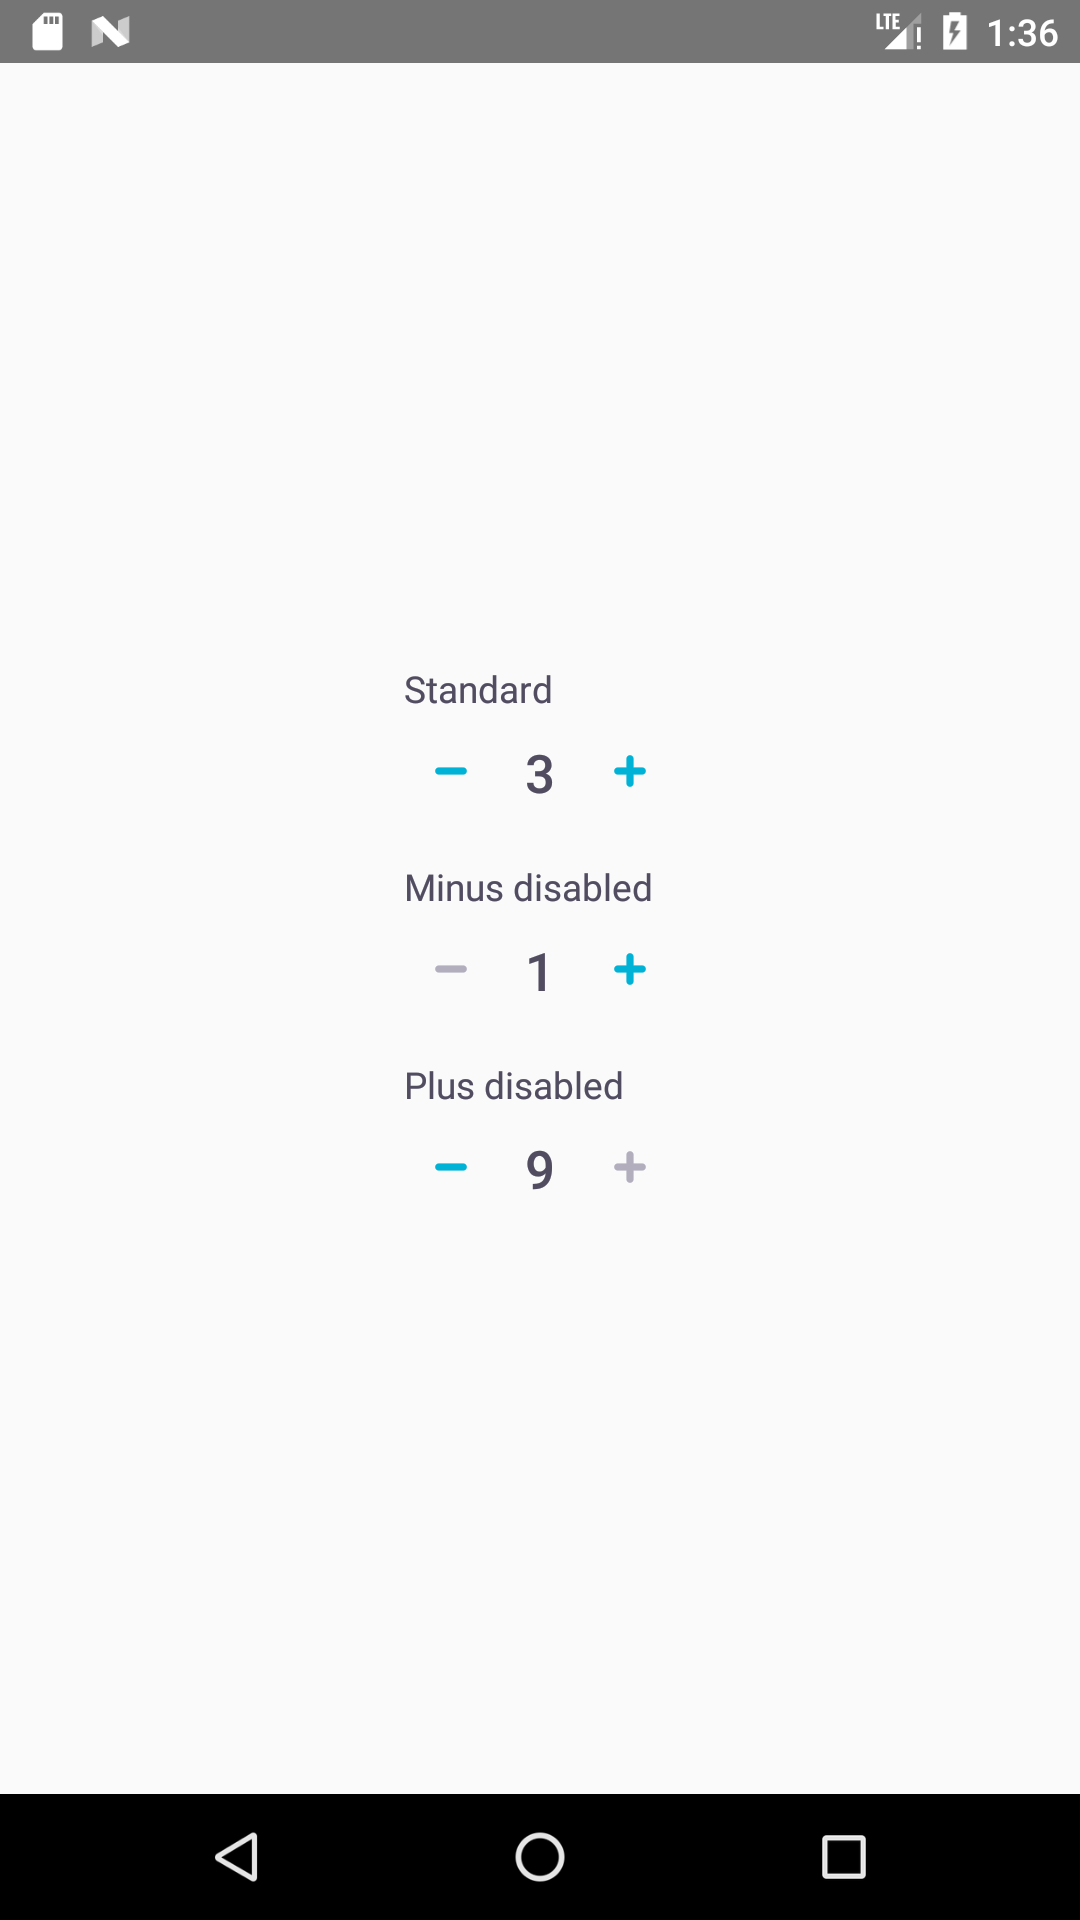
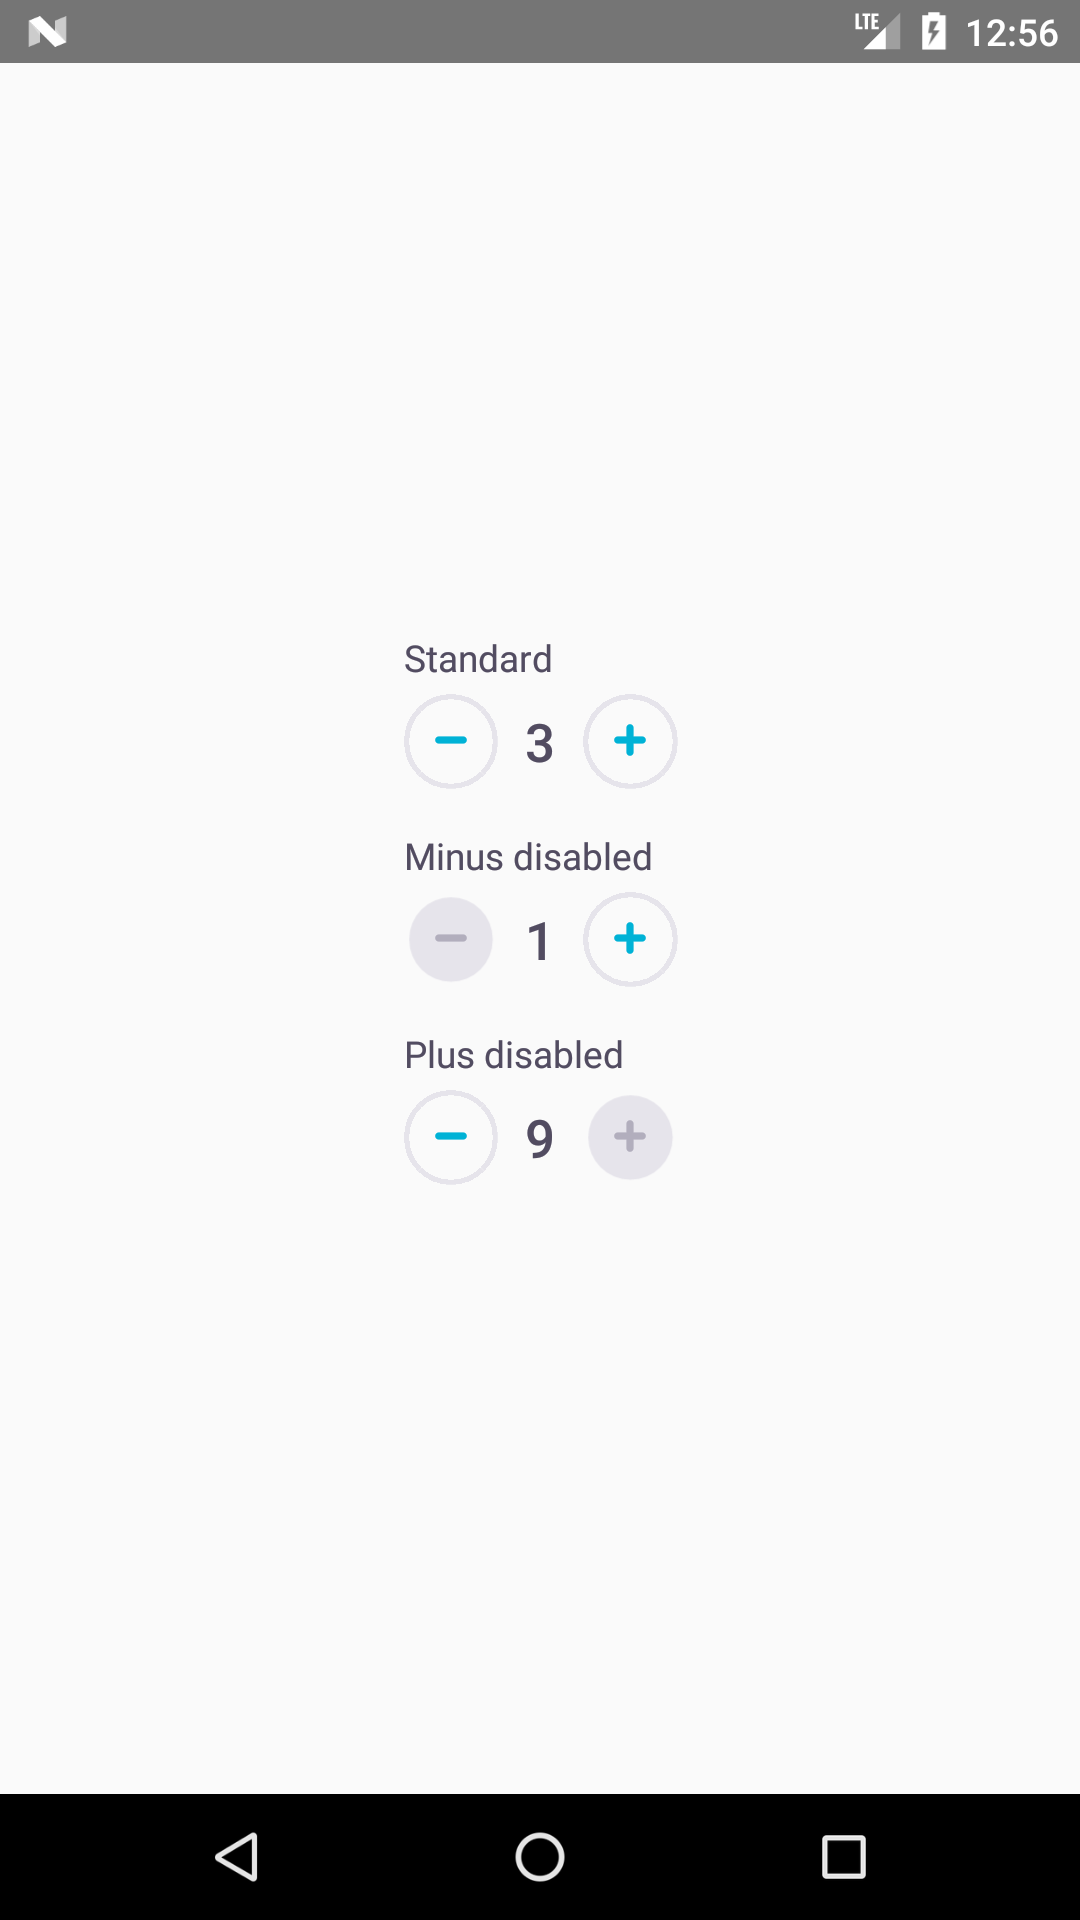
[BPK-1403] Align android secondary and destructive buttons

diff --git a/native/packages/react-native-bpk-component-button/src/utils.js b/native/packages/react-native-bpk-component-button/src/utils.js
@@ -178,10 +178,6 @@ export const getAndroidBackgroundColour = (
     backgroundColor: 'transparent',
   };
 
-  if (['secondary', 'destructive'].includes(props.type) && props.disabled) {
-    return StyleSheet.create({ style }).style;
-  }
-
   /**
    * The main colour of the button in Android is the start colour from the  gradient
    * for iOS, can be made explicit in the style file if needed

diff --git a/packages/bpk-tokens/tokens/android/base.react.native.es6.js b/packages/bpk-tokens/tokens/android/base.react.native.es6.js
@@ -25,7 +25,7 @@ export const borderSizeLg = 2;
 export const borderSizeXl = 3;
 export const borderRadiusSm = 2;
 export const borderRadiusPill = 40;
-export const buttonBorderWidth = 0;
+export const buttonBorderWidth = 2;
 export const buttonHeight = 32 + 4;
 export const buttonPaddingHorizontal = 4 * 3;
 export const buttonLineHeightLarge = 4 * 12;

diff --git a/packages/bpk-tokens/tokens/base.react.native.android.js b/packages/bpk-tokens/tokens/base.react.native.android.js
@@ -25,7 +25,7 @@ export const borderSizeLg = 2;
 export const borderSizeXl = 3;
 export const borderRadiusSm = 2;
 export const borderRadiusPill = 40;
-export const buttonBorderWidth = 0;
+export const buttonBorderWidth = 2;
 export const buttonHeight = 32 + 4;
 export const buttonPaddingHorizontal = 4 * 3;
 export const buttonLineHeightLarge = 4 * 12;

diff --git a/packages/bpk-tokens/tokens/android/base.react.native.common.js b/packages/bpk-tokens/tokens/android/base.react.native.common.js
@@ -27,7 +27,7 @@ module.exports = {
   borderSizeXl: 3,
   borderRadiusSm: 2,
   borderRadiusPill: 40,
-  buttonBorderWidth: 0,
+  buttonBorderWidth: 2,
   buttonHeight: 32 + 4,
   buttonPaddingHorizontal: 4 * 3,
   buttonLineHeightLarge: 4 * 12,

diff --git a/changelog.md b/changelog.md
@@ -10,6 +10,11 @@
   - New iOS native back, forward and close icons: `native-ios--back`, `native-ios--forward` and `native-ios--close`.
     - **Note:** to be used on iOS only...
 
+**Breaking:**
+- react-native-bpk-component-button:
+  - Android `secondary` and `destructive` buttons have been visually aligned with iOS by adding a border. Note that the existing visual look is available on both platforms via the [button-link component](https://backpack.github.io/components/native/button-link). This is a breaking change to prevent unintended updates to the button look and feel. 
+
+
 ## 2018-03-15 - New hotels amenities icons and native android back/forward/close icons
 
 **Added:**
